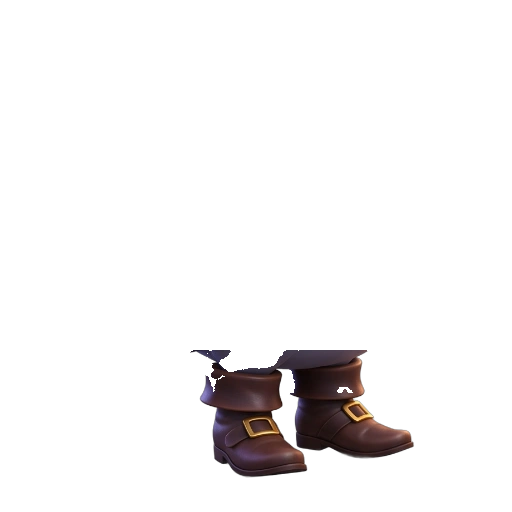
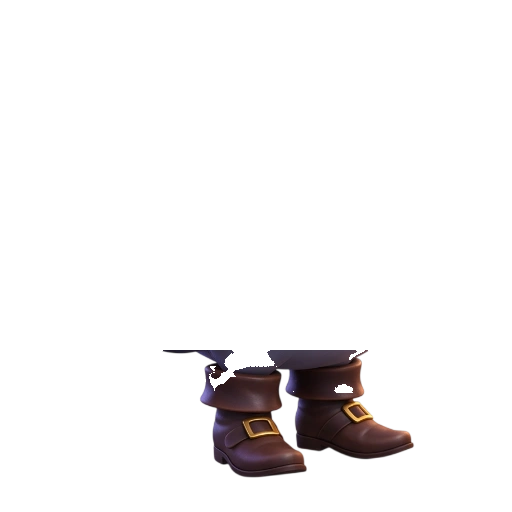
feat: use Photoroom RGBA PNG sheets for shoes pipeline

diff --git a/src/ui.tsx b/src/ui.tsx
@@ -123,7 +123,7 @@ export const PIGEON_SKIN_COLORS: Record<string, string> = {
   "iridescent-oil-slick": "#5e5a67", "skin-18": "#5e5a67", "18": "#5e5a67",
 };
 
-const ASSET_V = "?v=30";
+const ASSET_V = "?v=31";
 
 export function resolveSkinSrc(skin?: string | null): string {
   if (!skin || skin === "common" || skin === "default") {

diff --git a/scripts/build-pigeon-assets.py b/scripts/build-pigeon-assets.py
@@ -668,11 +668,16 @@ def build_accessories_assets(
     item_idx = 1
     for s_name in sheet_names:
         sheet_path = src_dir / s_name
-        if not sheet_path.exists():
+        photoroom_path = src_dir / f"{Path(s_name).stem}-Photoroom.png"
+        if photoroom_path.exists():
+            print(f"  ✓ Используем готовый RGBA PNG: {photoroom_path.name}")
+            cells = [cell for cell in iter_sheet_cells_rgba(photoroom_path)]
+        elif sheet_path.exists():
+            cells = [segment_subject(cell_rgb, session) for cell_rgb in iter_sheet_cells(sheet_path)]
+        else:
             print(f"  ⚠ Пропуск: {s_name} не найден")
             continue
-        for cell_rgb in iter_sheet_cells(sheet_path):
-            seg_rgba = segment_subject(cell_rgb, session)
+        for seg_rgba in cells:
             aligned_rgba = align_to_reference_ecc(seg_rgba, ref_alpha, mask_mode=mask_mode)
             isolated_rgba = extract_accessory_diff(aligned_rgba, ref_rgba, slot)
             out_file = out_slot_dir / f"{slot}-{item_idx:02d}.webp"
